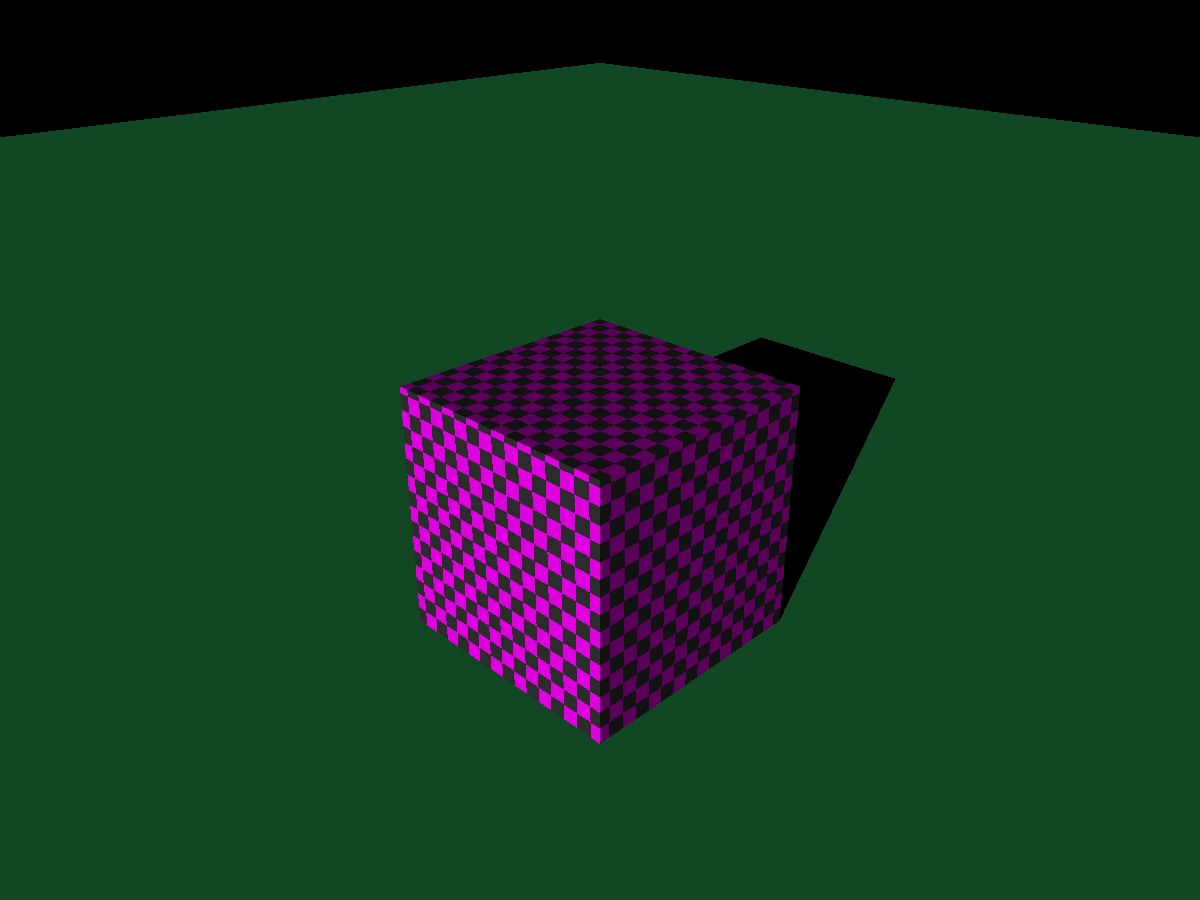
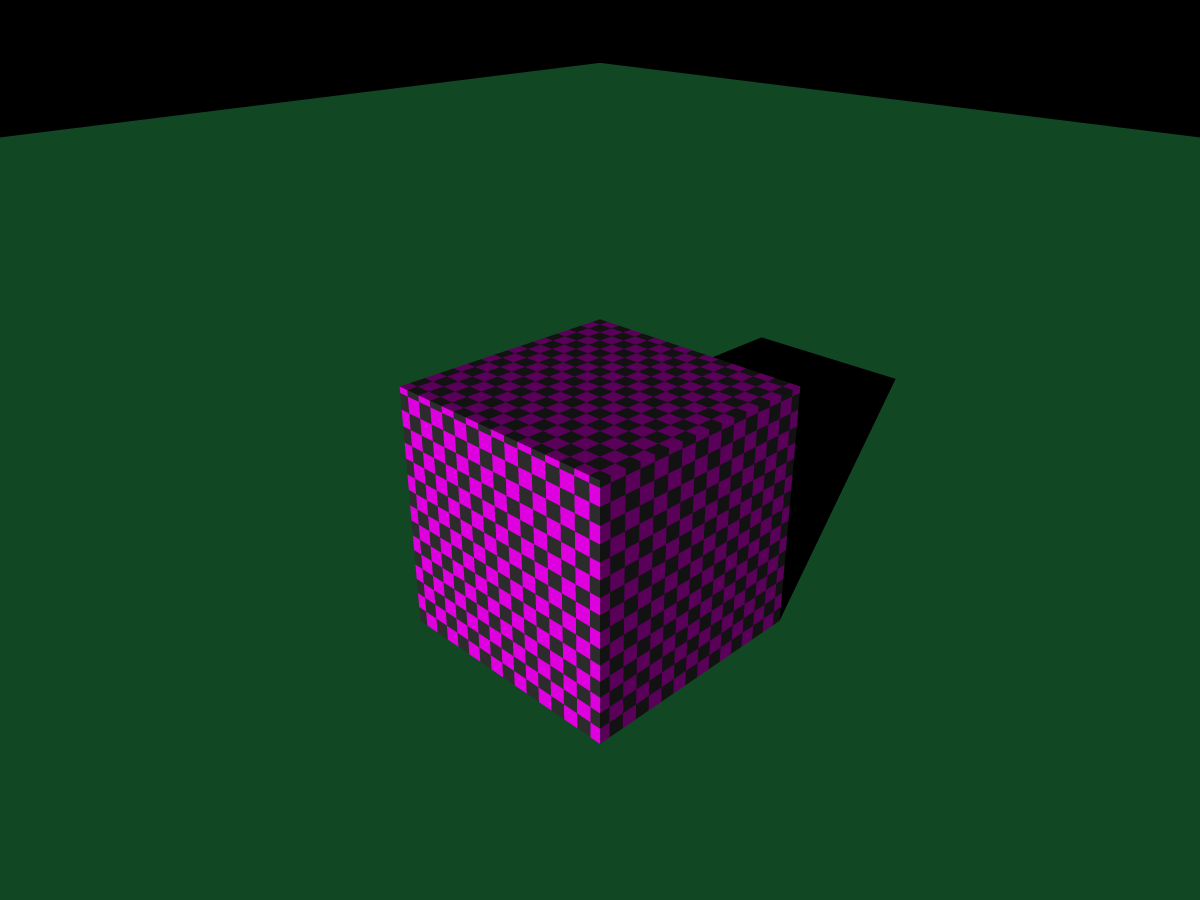
Added placeholder super-sampling

Changed region(s): [[0.3392, 0.4356, 0.4933, 0.7778], [0.4625, 0.6222, 0.4933, 0.6533], [0.4625, 0.56, 0.4933, 0.5911]]

diff --git a/src/bin/main.rs b/src/bin/main.rs
@@ -8,6 +8,7 @@ fn main() {
 
     let width = 1200;
     let height = 900;
+    let super_samples: i32 = 4;
 
     let mut world = World::new();
 
@@ -61,13 +62,21 @@ fn main() {
     // let camera = create_orthographic_camera([width, height]);
 
     let pb = create_progress_bar(width * height);
+    let super_sample_delta = 1.0 / super_samples as f32;
     for y in 0..height {
         for x in 0..width {
             pb.inc(1);
-
-            let uv = Point2::new((x as f32 + 0.5) / width as f32, (y as f32 + 0.5) / height as f32);
-            let probe = camera.emit(uv);
-            image[(x, y)] = render(&world, &scene, probe);
+            for sy in 0..super_samples {
+                for sx in 0..super_samples {
+                    let uv = Point2::new(
+                        (x as f32 + (sx as f32 + 0.5) * super_sample_delta) / width as f32,
+                        (y as f32 + (sy as f32 + 0.5) * super_sample_delta) / height as f32,
+                    );
+                    let probe = camera.emit(uv);
+                    image[(x, y)] += render(&world, &scene, probe);
+                }
+            }
+            image[(x, y)] /= super_samples.pow(2) as f32;
         }
     }
     pb.finish();

diff --git a/src/colour/rgba.rs b/src/colour/rgba.rs
@@ -1,6 +1,6 @@
 use std::{
     iter::Sum,
-    ops::{Add, AddAssign, Mul, MulAssign},
+    ops::{Add, AddAssign, Div, DivAssign, Mul, MulAssign},
 };
 
 use palette::Srgba;
@@ -82,6 +82,20 @@ impl Mul<f32> for Rgba {
 impl MulAssign<f32> for Rgba {
     fn mul_assign(&mut self, rhs: f32) {
         self.0 *= rhs;
+    }
+}
+
+impl Div<f32> for Rgba {
+    type Output = Self;
+
+    fn div(self, rhs: f32) -> Self::Output {
+        Self(self.0 / rhs)
+    }
+}
+
+impl DivAssign<f32> for Rgba {
+    fn div_assign(&mut self, rhs: f32) {
+        self.0 /= rhs;
     }
 }
 

diff --git a/src/colour/rgb.rs b/src/colour/rgb.rs
@@ -1,6 +1,6 @@
 use std::{
     iter::Sum,
-    ops::{Add, AddAssign, Mul, MulAssign},
+    ops::{Add, AddAssign, Div, DivAssign, Mul, MulAssign},
 };
 
 use palette::Srgb;
@@ -81,6 +81,20 @@ impl Mul<f32> for Rgb {
 impl MulAssign<f32> for Rgb {
     fn mul_assign(&mut self, rhs: f32) {
         self.0 *= rhs;
+    }
+}
+
+impl Div<f32> for Rgb {
+    type Output = Self;
+
+    fn div(self, rhs: f32) -> Self::Output {
+        Self(self.0 / rhs)
+    }
+}
+
+impl DivAssign<f32> for Rgb {
+    fn div_assign(&mut self, rhs: f32) {
+        self.0 /= rhs;
     }
 }
 
